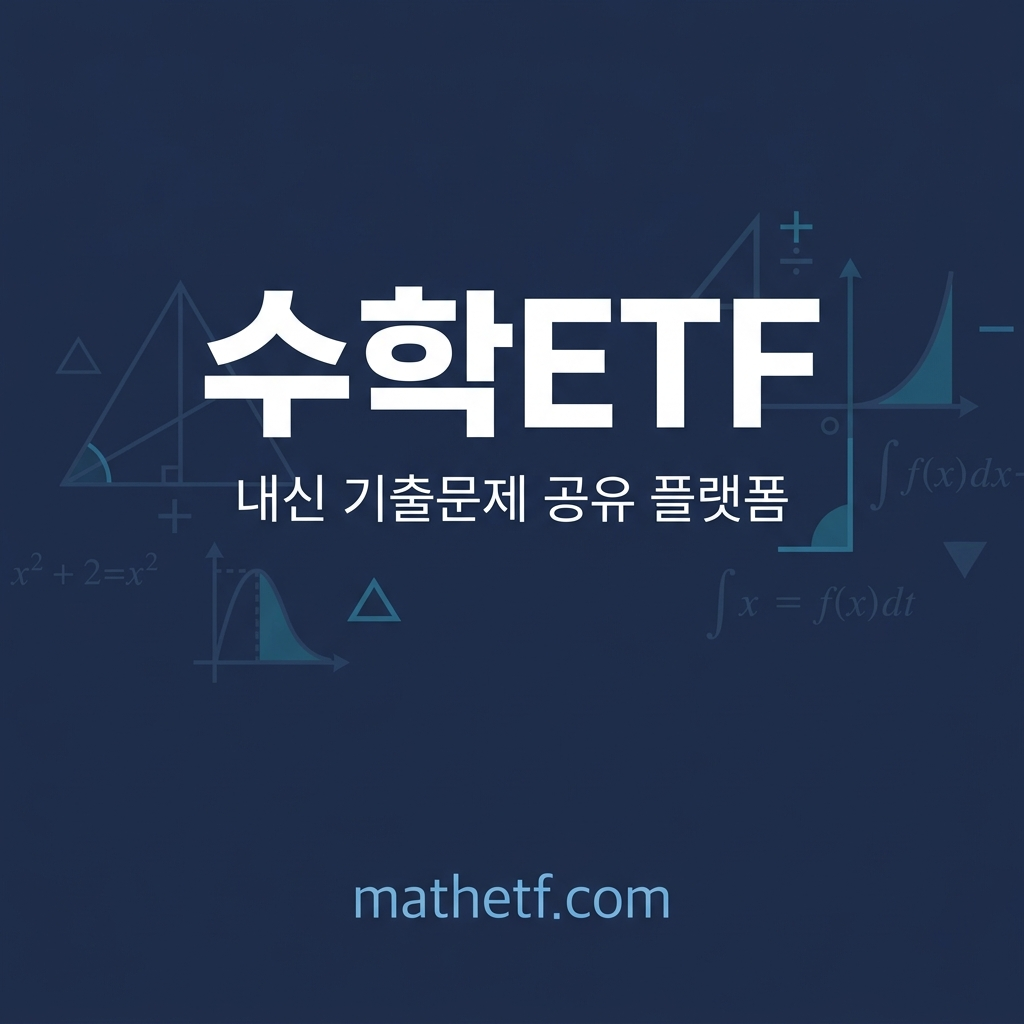
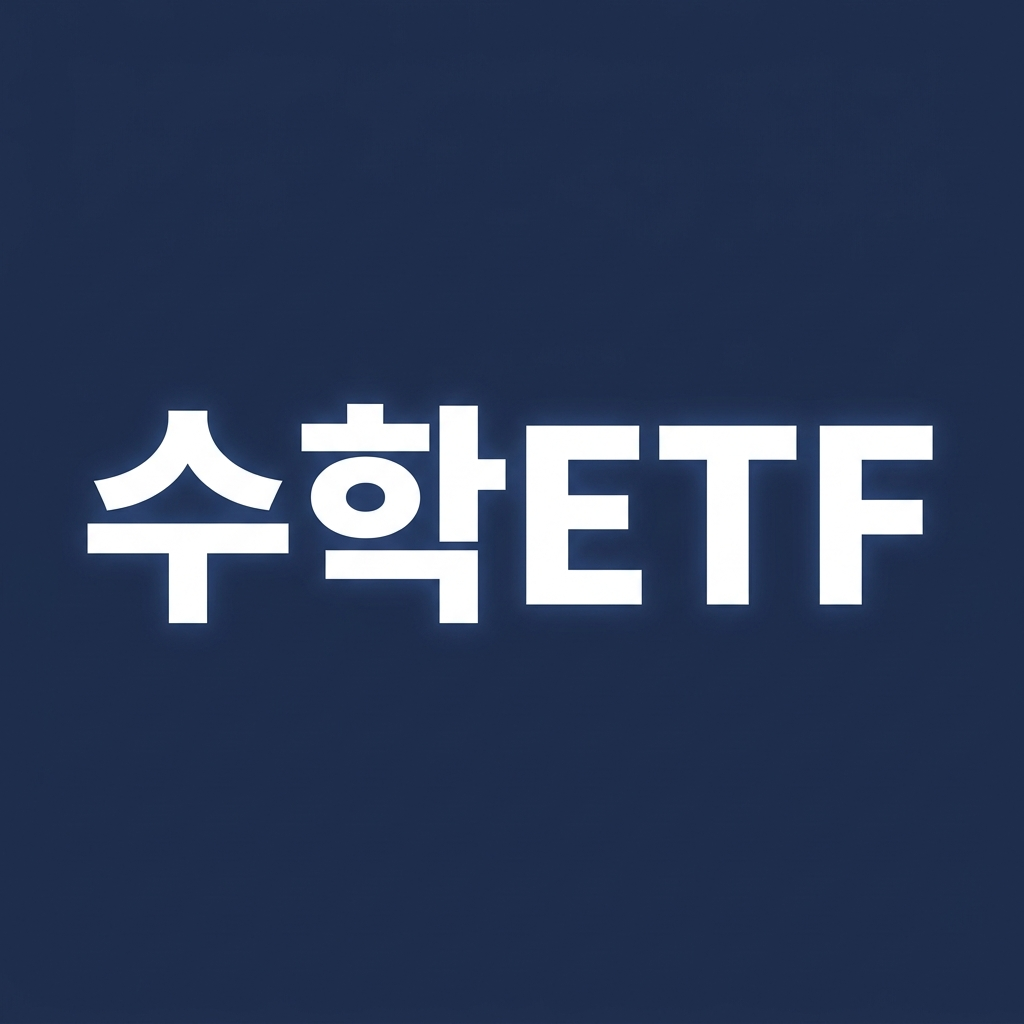
feat: OG 이미지 수학ETF 심플 버전으로 교체

diff --git a/src/app/layout.tsx b/src/app/layout.tsx
@@ -33,10 +33,10 @@ export const metadata: Metadata = {
         type: "website",
         images: [
             {
-                url: "/api/og",
+                url: "/og-image.png",
                 width: 1200,
                 height: 630,
-                alt: "수학ETF - 수학 시험지 자동 출제 플랫폼",
+                alt: "수학ETF",
             },
         ],
     },
@@ -44,7 +44,7 @@ export const metadata: Metadata = {
         card: "summary_large_image",
         title: "수학ETF - 내신 기출문제 공유 플랫폼",
         description: "수학 내신 기출문제를 즉시 다운로드. 고등학교 수학 내신 대비 기출문제 공유.",
-        images: ["/api/og"],
+        images: ["/og-image.png"],
     },
     robots: {
         index: true,